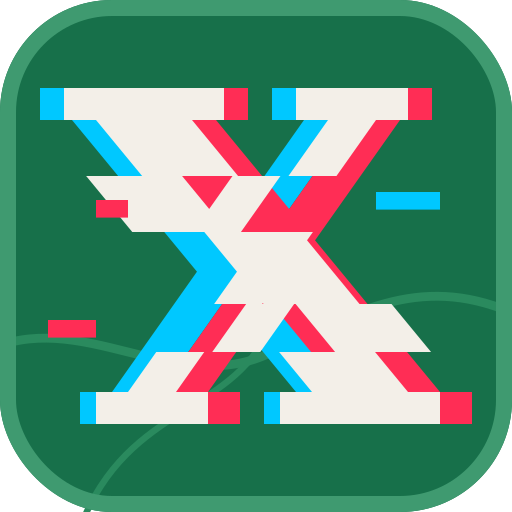
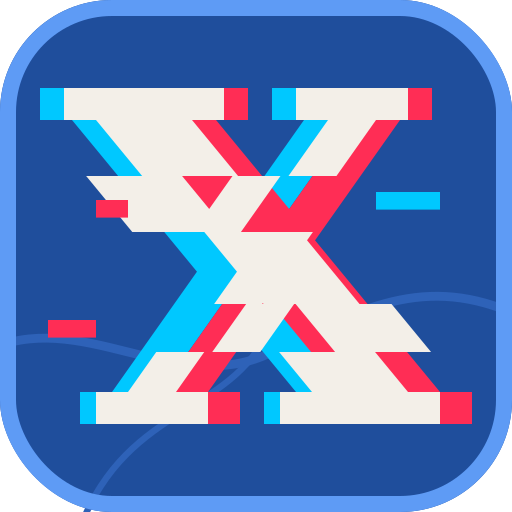
feat(brand): знак MAXIMUS на синей плитке — акцент продукта вместо зелёного

diff --git a/docs/furca/decisions.md b/docs/furca/decisions.md
@@ -103,4 +103,4 @@
 | D096 | 2026-10-27 | **Банки и форматы выписок партнёр заведёт сам через систему, образцы заранее не собираем.** Профили iBank и Raiffeisen остаются как есть до первых настоящих файлов | Ответ владельца на Q031 в терминале 27.10.2026, дословно: «ку31 - внесем потом. будем делать это все через систему» | owner |
 | D097 | 2026-10-27 | **Новых механик не добавляем, пока их не попросят; главное — сборка P&L. Сейчас в приоритете визуал по эталону дизайн-системы.** Q032 (переводы между своими счетами и зарплата в выписке) не делается: строки ждут решения человека, как сейчас. Волна работ — привести экраны к эталону `Дизайн-система MAXIMUS/`, чтобы продуктом было понятно и удобно пользоваться | Ответ владельца в терминале 27.10.2026, дословно: «ку32 - слишком усложняешь. наша основная целль - сборка ПНЛ. добавлять функционал убдем когда запросят. Сейчас меня волнует чтобы ты собрал визуал согласно нашему шаблону. сейчас проектом пользоваться не понятно и не удобно» | owner |
 | D098 | 2026-10-27 | **Каркас, панели, окно входа и лендинг — в едином виде с DECIMUS; вход через Google — как в DECIMUS.** Образец — `GarroV/decimus` (`login.html`, `login_base.html`, `landing.html`, `google_auth.py`, `google_link.py`); общий визуальный язык — `GarroV/forma`. Не вошедший человек меню продукта не видит. Пароль остаётся рядом с Google, как в DECIMUS. Частично отвечает на Q026 (#186) | Владелец в терминале 27.10.2026, дословно: «вот сразу. приведи внешний вид всех ппанелей, окно входа и лендинг к единому виду. все как и в децимусе» (к снимку страницы входа с полным меню у не вошедшего) и «гугл надо допилить» | owner |
-| D099 | 2026-10-28 | **Знак MAXIMUS — римская X, а не M.** Плитка и цвета прежние; M остаётся у MERIDIUS и MODIUS. Канон — `GarroV/forma` `dodo/brand/maximus/` (forma 5e41f49) | Владелец в терминале 28.10.2026, дословно: «ты иконку делал в виде Х? меня этот вариант устраивает больше» | owner |
+| D099 | 2026-10-28 | **Знак MAXIMUS — римская X на синей плитке (акцент продукта `#1F4E9C`).** Зелёный снят; M остаётся у MERIDIUS и MODIUS. Канон — `GarroV/forma` `dodo/brand/maximus/` (forma 07d0dc9) | Владелец в терминале 28.10.2026, дословно: «ты иконку делал в виде Х? меня этот вариант устраивает больше»; к зелёному: «почему тут зеленый цвет? ну нахуя?», цвет — «давай фиолетовую или синюю» | owner |
